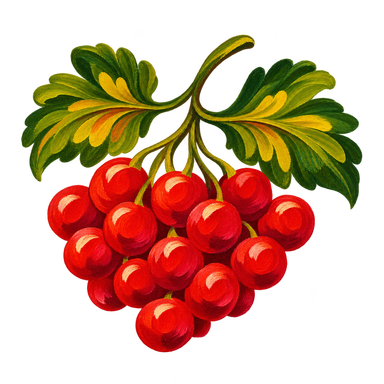
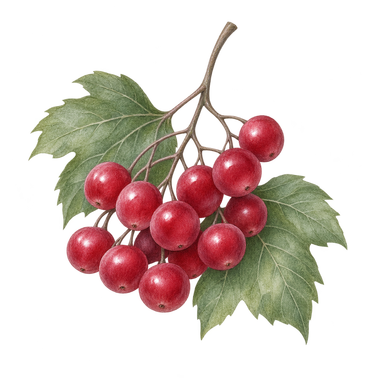
Update kalyna art and remove rings from guide flowers

diff --git a/guides.html b/guides.html
@@ -10,7 +10,7 @@
   <link rel="preconnect" href="https://fonts.googleapis.com">
   <link rel="preconnect" href="https://fonts.gstatic.com" crossorigin>
   <link href="https://fonts.googleapis.com/css2?family=Bodoni+Moda:ital,opsz,wght@0,6..96,400..900;1,6..96,400..900&family=Caveat:wght@400..700&family=EB+Garamond:ital,wght@0,400..800;1,400..800&family=Old+Standard+TT:ital,wght@0,400;0,700;1,400&family=Pinyon+Script&display=swap" rel="stylesheet">
-  <link rel="stylesheet" href="assets/css/style.css">
+  <link rel="stylesheet" href="assets/css/style.css?v=guides-wreath">
 </head>
 <body data-beads>
   <a class="skip-link" href="#main">skip to content</a>
@@ -266,6 +266,6 @@
     <svg viewBox="-50 -50 100 100" aria-hidden="true"><use href="#up"/></svg>
   </button>
 
-  <script src="assets/js/main.js?v=kalyna-art" defer></script>
+  <script src="assets/js/main.js?v=kalyna-revision" defer></script>
 </body>
 </html>

diff --git a/assets/css/style.css b/assets/css/style.css
@@ -403,13 +403,13 @@ a.polaroid { text-decoration: none; display: block; }
 /* round photo on a lacquer-tray rim with a flower wreath ---- */
 .tray-photo { position: relative; aspect-ratio: 1; width: 100%; }
 .tray-photo > svg { position: absolute; inset: -6%; width: 112%; height: 112%; }
-.tray-photo img {
+.tray-photo > img {
   position: absolute; inset: 9%; width: 82%; height: 82%;
   border-radius: 50%; object-fit: cover; filter: sepia(.08);
   box-shadow: 0 0 0 3px var(--gold), 0 0 0 6px var(--cherry-dark);
 }
 .bloom-layer { position: absolute; inset: -16%; pointer-events: none; z-index: 2; }
-.bloom-layer svg { position: absolute; overflow: visible; filter: drop-shadow(0 2px 2px rgba(61, 31, 36, .2)); }
+.bloom-layer svg, .bloom-layer img { position: absolute; overflow: visible; filter: drop-shadow(0 2px 2px rgba(61, 31, 36, .2)); }
 
 /* arched photo ---- */
 .arch {

diff --git a/assets/js/main.js b/assets/js/main.js
@@ -24,7 +24,7 @@
     chamomile: "assets/img/art/chamomile.png",
     poppy: "assets/img/art/poppy.png",
     cherries: "assets/img/art/cherries.png",
-    kalyna: "assets/img/art/kalyna.png",
+    kalyna: "assets/img/art/kalyna.png?v=2",
     // "oval-frame": "assets/img/art/oval-frame.png",
     // vinok: "assets/img/art/vinok.png",
     // rose: "assets/img/art/rose.png",

diff --git a/about.html b/about.html
@@ -236,6 +236,6 @@
     <svg viewBox="-50 -50 100 100" aria-hidden="true"><use href="#up"/></svg>
   </button>
 
-  <script src="assets/js/main.js?v=kalyna-art" defer></script>
+  <script src="assets/js/main.js?v=kalyna-revision" defer></script>
 </body>
 </html>

diff --git a/index.html b/index.html
@@ -265,6 +265,6 @@
     <svg viewBox="-50 -50 100 100" aria-hidden="true"><use href="#up"/></svg>
   </button>
 
-  <script src="assets/js/main.js?v=kalyna-art" defer></script>
+  <script src="assets/js/main.js?v=kalyna-revision" defer></script>
 </body>
 </html>
